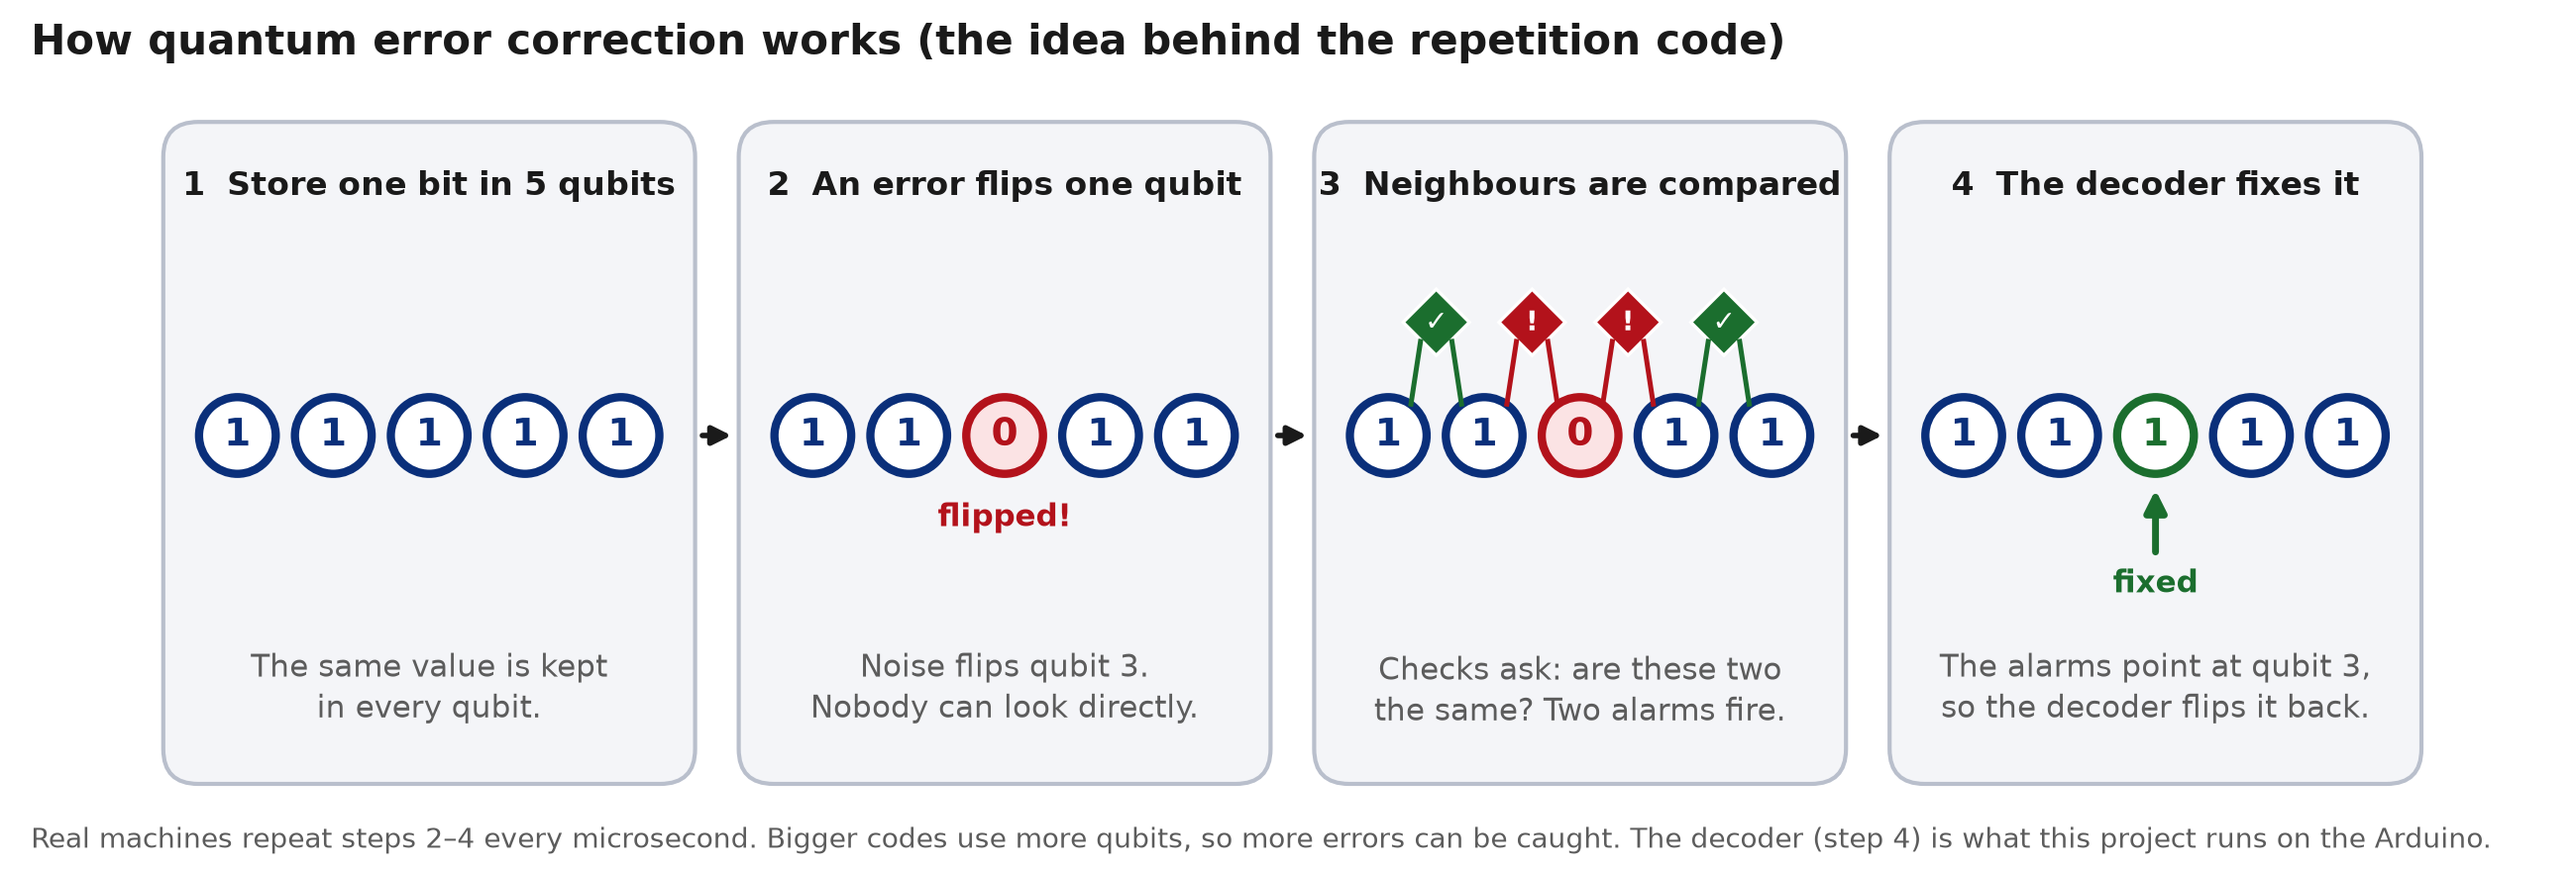
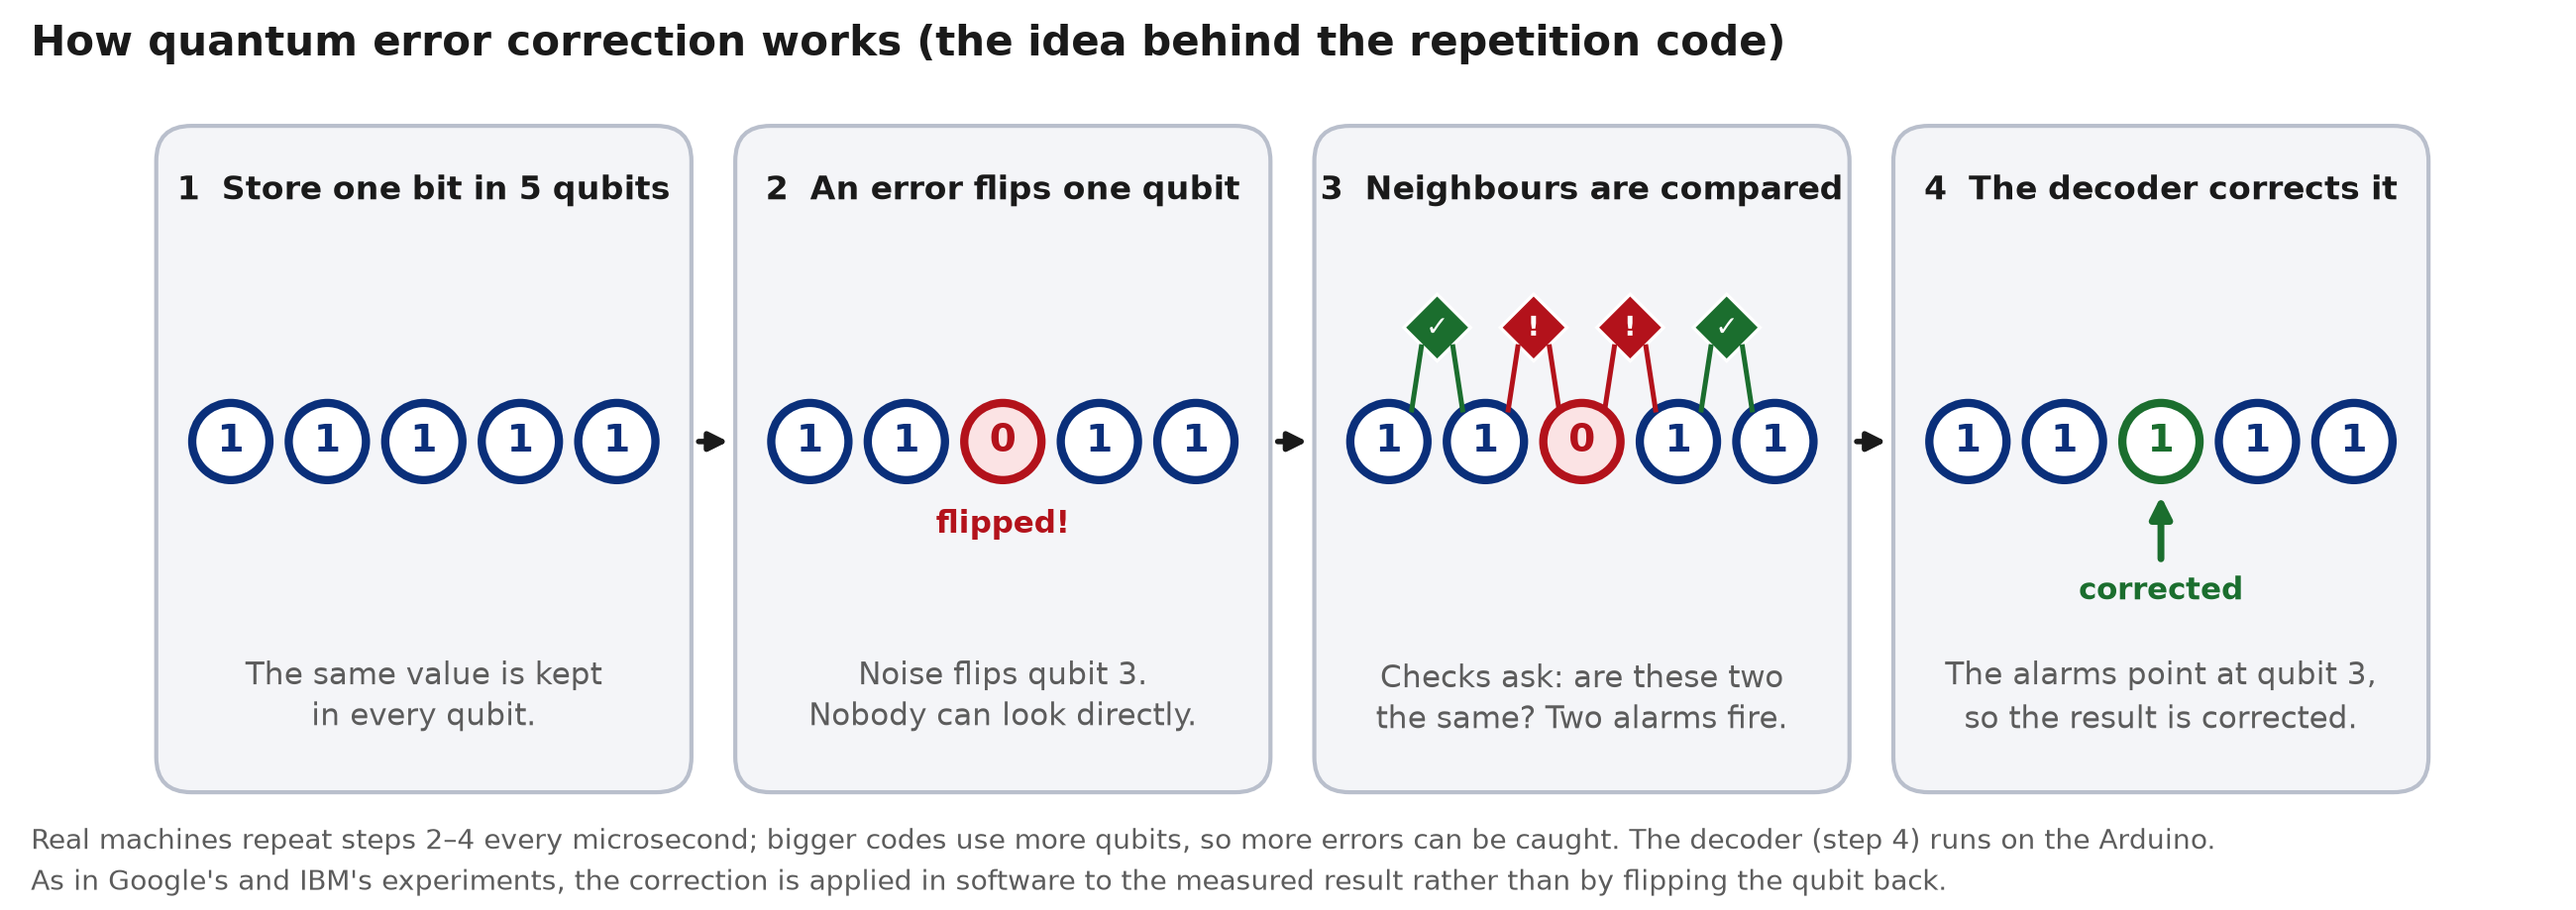
update readme

diff --git a/docs/project_hub_description.md b/docs/project_hub_description.md
@@ -1,0 +1,79 @@
+TITLE
+QEC Edge Lab: a €60 Arduino that corrects real quantum-computer errors
+
+SHORT DESCRIPTION (one line)
+An Arduino UNO Q decodes errors from IBM's real quantum computers in real time, with an on-device AI decoder that makes up to 9× fewer mistakes.
+
+TAGS
+Junction Finland 2026, Arduino UNO Q, Modulino, Edge AI, Quantum computing
+
+---------------------------------------------------------------------------
+
+STORY
+
+In one sentence
+Quantum computers make mistakes all the time, and a fast classical computer has to fix them on the fly. We built that "error fixer" on an Arduino UNO Q, tested it on real IBM quantum computers, and taught it with on-device AI to fix errors up to 9× better than the standard method. No quantum background is needed to follow this project.
+
+In 30 seconds
+- Real quantum hardware: the Arduino sends experiments to IBM's 156-qubit quantum computers over the internet (free account).
+- The Arduino fixes the errors: its real-time microcontroller works out which quantum bits went wrong, and measures exactly how long that takes.
+- Edge AI: a small neural network trained on the Arduino learns the "personality" of each quantum chip and makes up to 9× fewer mistakes (typically 2–3×) than the best classical method.
+- You can feel the limit: turn the Modulino Knob to speed up the stream of errors; the LED matrix fills up and the Modulino Buzzer growls when the Arduino can no longer keep up.
+
+Quantum computing in one minute
+Quantum bits (qubits) are fragile: heat, stray signals or simply time make them flip by accident. Quantum error correction spreads one bit of information over many qubits, like whispering a message with several people at once in a noisy room. You cannot look at the qubits directly, so helper qubits keep asking "are these two neighbours still the same?". The answers are clues. A classical program, the decoder, reads the clues and works out which qubit flipped so it can be fixed. The decoder must be accurate and fast: new clues arrive about every microsecond on IBM machines. Like a supermarket cashier, if customers arrive faster than they are served, the queue grows forever.
+
+Detecting or correcting? As in Google's and IBM's error-correction experiments, the qubits are not physically flipped back: the decoder works out which errors happened and corrects the measured result in software. The proof that this is correction and not just detection is that the final answer gets more reliable as more qubits are added. Our decoding runs after each IBM job; the real-time test replays the real data on the Arduino at realistic speed.
+
+Why it matters
+Decoding is one of the hardest engineering problems on the road to useful quantum computers. Google, Google DeepMind (AlphaQubit), Riverlane, NVIDIA and IBM are all building dedicated FPGA, GPU or neural-network decoders for it. QEC Edge Lab explores the same two ideas, neural-network decoding and putting the decoder close to the experiment, on a €60 board.
+
+What we built
+The Arduino UNO Q is two computers on one board, exactly like the control system of a real quantum computer:
+- Linux side ("the office"): talks to IBM, collects the clues, learns how each chip misbehaves, trains the AI decoder (about 2.6 s on the board) and serves a live web dashboard.
+- Microcontroller ("the factory floor", STM32 at 160 MHz): runs the decoders in real time (classical union-find and the AI) and times every decode to the clock cycle.
+- 8×13 LED matrix: progress, results, and the live queue of unsolved errors.
+- Modulino Knob: sets how fast new clues arrive.
+- Modulino Buzzer: growls when the decoder falls behind.
+
+How it works
+1. The Arduino builds error-correction experiments with 5 to 49 qubits and sends them to IBM as one job (about 6 seconds of quantum computer time).
+2. The clues come back; the Linux side learns the chip's noise and trains the neural network.
+3. The microcontroller decodes every shot with several decoders, including the AI (integer-only neural network, bit-exact with the Python version, about 8.5 KB of RAM).
+4. Real-time test: thousands of real clue sets are loaded into the microcontroller's memory and replayed at a chosen speed. The knob sets the speed; the LED matrix and buzzer show when the decoder can no longer keep up.
+
+Results on real IBM quantum computers
+- Error correction works on the real chips: spreading the information over 21 qubits instead of 5 cut mistakes from 4.8% to 0.075% (64× fewer).
+- The AI decoder makes up to 9.5× fewer mistakes (typically 2–3×) than the best classical decoder on codes of up to 17 qubits, on two different IBM chips.
+- Why the AI wins: on these chips a stored 1 fades into a 0 about 10–16× more often than a 0 turns into a 1. The AI learned this by itself from the data. The Arduino also found one qubit that flips 31% of the time.
+- Speed: the AI decoder keeps up down to about 9 microseconds per round, as fast as the fastest classical decoder we built. We also made the classical decoder 2.4–4× faster on the microcontroller with identical answers.
+
+Why this could work on neutral-atom and trapped-ion quantum computers
+IBM's superconducting qubits need a decoder every ~1 microsecond, which is too fast for a microcontroller. Neutral-atom and trapped-ion quantum computers run much slower rounds, roughly 1 millisecond, giving the decoder about 100× more time than our Arduino needs. These machines already use AI decoders today (Harvard/QuEra/MIT on neutral atoms, Quantinuum on trapped ions), so a cheap, low-power decoder that learns each device's noise could be a practical building block. We have not tested on those machines yet.
+
+Who it helps
+- Students and teachers: see, hear and touch quantum error correction on real hardware for the price of an Arduino.
+- Engineers building quantum computers: a cheap bench to test decoder speed and accuracy on embedded chips.
+- Researchers: real measurements of how individual qubits on IBM chips misbehave, from a free account.
+
+Honest limitations
+- The real-time test replays real IBM data on the Arduino; the timing is real, but the loop with the quantum computer is not closed (the internet adds milliseconds).
+- About 9 µs per round is too slow for superconducting qubits; it would likely be fast enough for neutral-atom and trapped-ion machines.
+- Corrections are applied in software to the measured result (as in Google's and IBM's experiments), not sent back to the qubits, and decoding happens after each IBM job.
+- Repetition code only: it protects against bit flips, not phase errors, so it does not protect an arbitrary quantum state; 2-D codes are the next step.
+- On large codes the AI decoder hits an accuracy floor of about 0.2–0.3%, where the classical decoder is better, so the best design combines both.
+
+Hardware
+- Arduino UNO Q (2 GB)
+- Modulino Knob
+- Modulino Buzzer
+- USB-C cable and power supply
+
+Software
+- Arduino App Lab (Python app + Arduino sketch + WebUI brick)
+- IBM Quantum (free Open Plan), Qiskit
+- numpy (AI training on the board)
+
+Code and full results
+https://github.com/victor-onofre/QEC_Edge_Lab_submission
+(Import qec_lab_import.zip into Arduino App Lab, add your IBM key to python/ibm_config.json, connect the Knob and Buzzer, and run.)

diff --git a/README.md b/README.md
@@ -46,6 +46,12 @@ likely flipped, so they can be corrected. This program is called the **decoder**
 **This project builds that decoder on an Arduino**, checks how accurate and how fast it is on real IBM data, and
 uses AI to make it smarter.
 
+**Detecting or correcting?** As in Google's and IBM's error-correction experiments, the qubits are not physically
+flipped back: the decoder works out which errors happened and **corrects the measured result in software** (experts
+call this tracking the errors in the "Pauli frame"). The proof that this is correction and not just detection is that
+the final answer gets *more* reliable as more qubits are added. Our decoding runs after each IBM job; the real-time
+test replays the real data on the Arduino at realistic speed.
+
 ---
 
 ## Why this matters: the race to build fast decoders
@@ -268,7 +274,9 @@ QEC_Edge_Lab_submission/
 
 1. Create a free IBM Quantum account (Open Plan); copy your API key and instance CRN. *(Optional: the
    "Noise model" mode works without any account.)*
-2. In Arduino App Lab 0.12, create an app `qec_lab`, add the **WebUI - HTML** brick and the **Modulino** sketch library.
+2. **Easiest:** import `qec_lab_import.zip` (in the repository root) into Arduino App Lab; it contains `app.yaml`
+   (with the WebUI brick) and `sketch/sketch.yaml` (with the Modulino library). **Manual alternative:** in Arduino App Lab 0.12,
+   create an app `qec_lab`, add the **WebUI - HTML** brick and the **Modulino** sketch library.
 3. Copy `code/qec_lab/{python,sketch,assets}` into the app. **Add the brick first, then copy** (adding the brick resets `assets/`).
    Don't overwrite App Lab's own `app.yaml` and `sketch/sketch.yaml`.
 4. Copy `python/ibm_config.example.json` to `python/ibm_config.json` and fill in your token and instance. Never publish it.
@@ -284,7 +292,10 @@ QEC_Edge_Lab_submission/
   the quantum computer is not closed (the network adds milliseconds).
 - **Too slow for superconducting qubits** (~9–15 µs vs ~1 µs per round); likely fast enough for trapped-ion and
   neutral-atom machines (rounds of roughly 100 µs to a few ms).
-- **Repetition code only** (bit flips, not phase errors); 2-D codes are the next step.
+- **Correction in software, after the run:** as in Google's and IBM's memory experiments, corrections are applied to the
+  measured result (Pauli-frame tracking), not sent back to the qubits; decoding happens after each IBM job.
+- **Repetition code only** (bit flips, not phase errors), so it does not protect an arbitrary quantum state; 2-D codes
+  (surface or colour codes) are the next step.
 - **STM32 statistics** use 400 shots per distance; full statistics (4,000) come from the laptop tool, which runs the
   same C decoder code.
 
